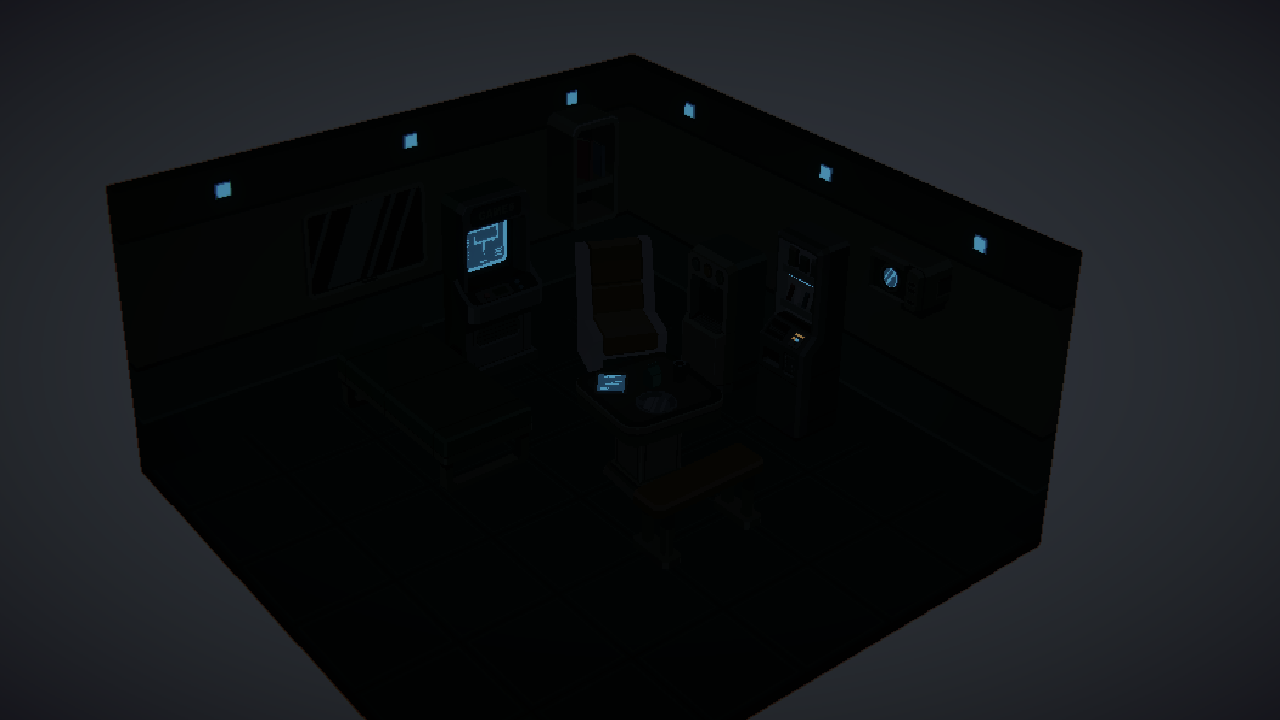
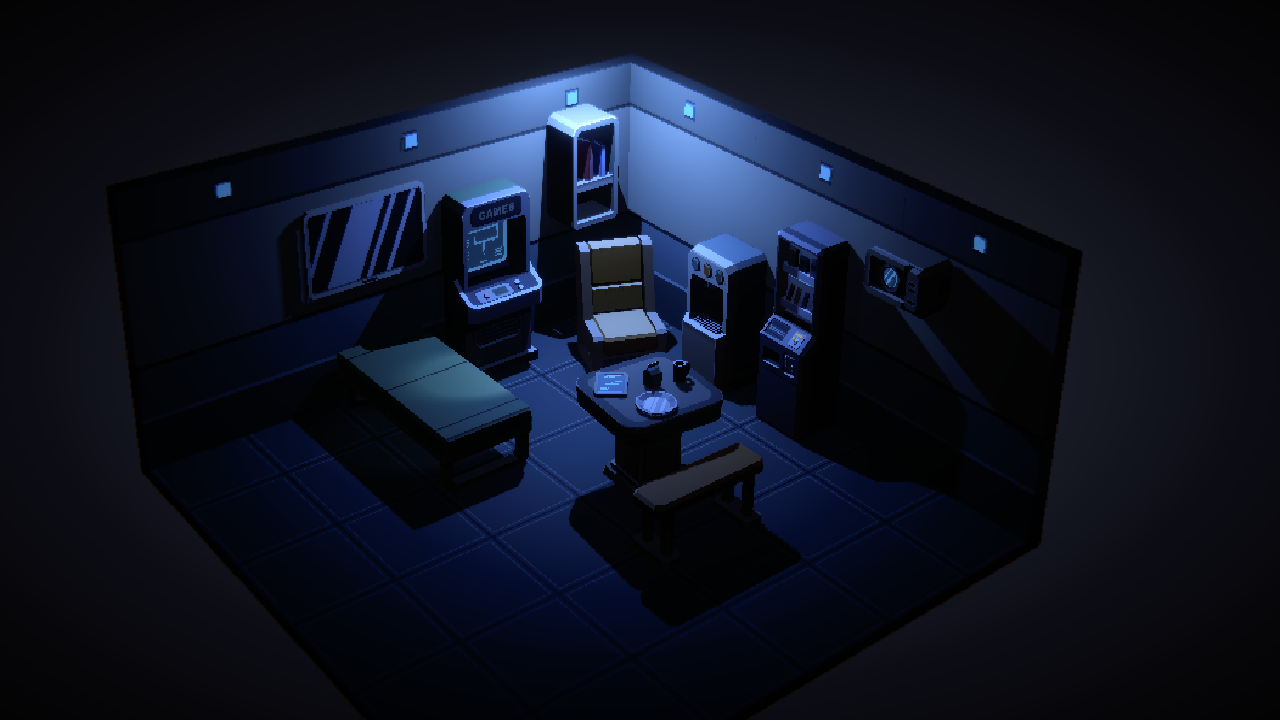
Spatial grounding fix: diagonal + range rule + guardrail (horror 4->7/10)
Root-caused the full suite's shared failure pattern instead of tuning
blindly. The archetype instructions already say the correct craft rule
(KEY must shape the space with a real falloff gradient, FILL never
fully off) and the agent's own reasoning echoed that language almost
verbatim on every failing attempt -- while still picking range=2.0-4.6
in a room with a ~20+ unit diagonal. Not a missing-concept problem: a
missing-number problem. The scene bounding box was already given to
the agent (get_scene_bounds), but only as min/max corners framed for
placement rejection, with no diagonal and nothing connecting room scale
to a range choice.

Three changes:
1. get_scene_context()'s bounds section now states the diagonal
   directly (pre-computed, not left for the model to derive from six
   raw numbers) plus an explicit sizing rule: KEY range >= 25-40% of
   the diagonal.
2. Same rule added to the KEY/FILL/RIM craft instructions, explicitly
   framed as archetype-independent (a physical sizing rule, not a mood
   decision -- applies regardless of which of the 4 archetypes).
3. New 4th guardrail (RANGE_DIAGONAL_FRACTION_FLOOR=0.25): checks the
   claimed KEY light's real range (not self-report) against the real
   scene diagonal, same claim-vs-reality pattern as every other
   guardrail this session.

Re-tested horror ALONE (deliberately cheap, before a full suite
re-run): 4/10 -> 7/10, PASS. The guardrail never even had to fire --
[…]

diff --git a/agent/src/unity_mood_lighting_agent/main.py b/agent/src/unity_mood_lighting_agent/main.py
@@ -45,7 +45,7 @@ from pathlib import Path
 from agents import Runner, trace
 from dotenv import load_dotenv
 
-from unity_mood_lighting_agent.agent import LightingDecision, Lever, agent, get_scene_context
+from unity_mood_lighting_agent.agent import LightingDecision, Lever, LightRole, agent, get_scene_context
 from unity_mood_lighting_agent.judge import judge_mood_match
 from unity_mood_lighting_agent.spatial_agent import ensure_spatial_breakdown, load_cached_spatial_breakdown
 from unity_mood_lighting_agent.tools import cleanup_agent_lights
@@ -63,6 +63,7 @@ from unity_mood_lighting_agent.unity_bridge import (
     get_color_adjustments,
     get_fog,
     get_light_properties,
+    get_scene_bounds,
     get_skybox,
     get_vignette,
     image_to_data_url,
@@ -115,6 +116,17 @@ LOG_PATH = REPO_ROOT / "mood_test_log.jsonl"
 # the whole frame) would be more principled than any whole-frame
 # percentile ratio — flagged for a future session, not solved here.
 KEY_LIGHT_P90_LIFT_FLOOR = 0.15
+
+# Found via the full eval suite (2026-11-26): every "restrained"-archetype
+# failure shared the identical judge complaint (isolated bright dots, no
+# real shadow-shaping key) while the agent's own reasoning used the exact
+# right vocabulary -- it understood the concept, it just picked a `range`
+# disconnected from the room's real physical scale (nothing in its prompt
+# connected the scene bounding box to a range number before this). This
+# guardrail checks the claimed KEY light's real range against the scene's
+# real diagonal (get_scene_bounds) -- a KEY that only reaches a fraction
+# of the room this small is lighting its own local radius, not the room.
+RANGE_DIAGONAL_FRACTION_FLOOR = 0.25
 
 
 def _snapshot_lever_state() -> dict:
@@ -854,6 +866,55 @@ async def run(task: str, case_name: str | None = None, scene_path: str | None = 
                                 f"Gave up after {MAX_ATTEMPTS} attempts. Final attempt was rejected: "
                                 f"key light never exceeded baseline brightness (p90={contrast.p90}, "
                                 f"needed {required_p90:.1f})."
+                            )
+                        continue  # skip the judge entirely, retry without burning that call
+
+                # Fourth deterministic guardrail (2026-11-26): the claimed
+                # KEY light's real range vs. the scene's real diagonal —
+                # see RANGE_DIAGONAL_FRACTION_FLOOR's comment for why.
+                key_assignments = [a for a in decision.light_role_assignments if a.role == LightRole.KEY]
+                if key_assignments:
+                    bounds = get_scene_bounds()
+                    required_range = bounds.diagonal * RANGE_DIAGONAL_FRACTION_FLOOR
+                    undersized = [
+                        (a.instance_id, real_range)
+                        for a in key_assignments
+                        if (real_range := get_light_properties(a.instance_id).range) is not None
+                        and real_range < required_range
+                    ]
+                    if undersized:
+                        print(
+                            f"[guardrail] attempt {attempt}/{MAX_ATTEMPTS} KEY light range too small "
+                            f"for the room ({undersized}, need >= {required_range:.1f} = "
+                            f"{RANGE_DIAGONAL_FRACTION_FLOOR * 100:.0f}% of diagonal {bounds.diagonal:.1f}) "
+                            "— skipping judge call"
+                        )
+                        feedback = (
+                            f"Your claimed KEY light(s) {[u[0] for u in undersized]} have range(s) "
+                            f"{[u[1] for u in undersized]}, but the scene's diagonal is "
+                            f"{bounds.diagonal:.1f} — a KEY light's range needs to be at least "
+                            f"{required_range:.1f} ({RANGE_DIAGONAL_FRACTION_FLOOR * 100:.0f}% of the "
+                            "diagonal) to actually reach a meaningful portion of the room's floor/"
+                            "walls. At its current range, this light only lights its own small local "
+                            "radius — exactly the 'bright dot in the dark' failure, not a real "
+                            "shadow-shaping key, no matter how high its intensity is. Widen the range "
+                            "(or reposition it so a wider range still fits the mood) rather than only "
+                            "raising intensity."
+                        )
+                        attempt_history.append({"role": "user", "content": [{"type": "input_text", "text": feedback}]})
+                        if attempt == MAX_ATTEMPTS:
+                            _log_guardrail_rejection(
+                                task, attempt, "key_light_range_too_small",
+                                {"undersized": undersized, "required_range": required_range, "diagonal": bounds.diagonal},
+                                case_name, run_started_at,
+                            )
+                            shutil.copyfile(post_attempt_capture.path, shot_dir / "result.png")
+                            shutil.copyfile(post_attempt_capture.path, latest_dir / "result.png")
+                            print(f"[screenshot] result saved: {post_attempt_capture.path} (+ latest/)")
+                            return (
+                                f"Gave up after {MAX_ATTEMPTS} attempts. Final attempt was rejected: "
+                                f"KEY light range too small for the room ({undersized}, needed >= "
+                                f"{required_range:.1f})."
                             )
                         continue  # skip the judge entirely, retry without burning that call
 

diff --git a/agent/src/unity_mood_lighting_agent/agent.py b/agent/src/unity_mood_lighting_agent/agent.py
@@ -266,7 +266,12 @@ agent = Agent(
         "must visibly shape the SPACE around it — a real falloff "
         "gradient on the floor/walls, a real shadow boundary — not just "
         "glow brightly at its own position while everything nearby "
-        "stays black.\n"
+        "stays black. SIZE ITS RANGE AGAINST THE SCENE DIAGONAL (given "
+        "in your scene context) — at least 25-40% of it. This is a "
+        "physical sizing rule, not a mood decision: it applies whether "
+        "the mood is dramatic or soft, and a range far below this reads "
+        "as 'a bright dot in the dark' regardless of how high the "
+        "intensity is.\n"
         "- FILL: a much dimmer secondary light (or the scene's OTHER "
         "existing lights, retuned) — roughly 10-30% of the key's "
         "intensity, never fully off. Its job is to keep the shadow side "
@@ -497,7 +502,15 @@ def get_scene_context() -> str:
         "create_light/set_object_transform outside this range will be rejected):\n"
         f"- x: {bounds.min_x:.1f} to {bounds.max_x:.1f}\n"
         f"- y: {bounds.min_y:.1f} to {bounds.max_y:.1f}\n"
-        f"- z: {bounds.min_z:.1f} to {bounds.max_z:.1f}"
+        f"- z: {bounds.min_z:.1f} to {bounds.max_z:.1f}\n"
+        f"- SCENE DIAGONAL: {bounds.diagonal:.1f} world units, corner to corner. "
+        "Use this directly to size a light's `range`: a KEY light's range should "
+        "typically be AT LEAST 25-40% of this diagonal to visibly shape a "
+        "meaningful portion of the room (reach the floor/walls with a real "
+        "gradient) rather than only its own small local radius. A range much "
+        "smaller than that, even at high intensity, reads as 'a bright dot in "
+        "the dark' no matter how dramatic the mood calls for — this is a sizing "
+        "rule, not a mood choice; it applies the same way to every archetype."
     )
 
     color = get_color_adjustments()

diff --git a/docs/mood-test-results.md b/docs/mood-test-results.md
@@ -2105,3 +2105,65 @@ time, idempotent), but worth checking next session whether `save_scene()`
 is actually being called after `ensure_scene_ready()` adds it, or
 whether the Volume GameObject itself isn't surviving a scene reload for
 some other reason.
+
+## 2026-11-26 (cont'd again): spatial-grounding fix — horror 4/10 -> 7/10, confirmed on first retest
+
+Discussed the suite's failure pattern directly with Eran. Checked the
+actual archetype instructions rather than guessing — they already say
+exactly the right thing ("KEY must visibly shape the SPACE... a real
+falloff gradient on the floor/walls... not just glow at its own position
+while everything nearby stays black," FILL "never fully off, 10-30% of
+key"). The agent's own `reasoning` text for failing attempts echoed this
+exact language almost verbatim while still choosing `range=2.0-4.6` in
+rooms with a ~20+ unit diagonal — not a missing-concept problem, an
+execution-grounding problem: it understood the idea and had no number to
+calibrate against.
+
+Checked `get_scene_context()`: the scene bounding box WAS already being
+given to the agent (`get_scene_bounds()`), but only framed as a placement
+constraint ("don't put a light outside this box"), min/max corners with
+no diagonal and no instruction connecting room scale to a `range` choice.
+The model would've had to mentally derive a diagonal from six raw numbers
+and then decide what that implies for `range` — nothing did that
+translation for it.
+
+Built 3 things, in order, before retesting:
+1. `get_scene_context()`'s bounds section now states the diagonal directly
+   (pre-computed, not left for the model to derive) plus an explicit rule:
+   a KEY light's range should be at least 25-40% of the diagonal.
+2. Added the same rule to the KEY/FILL/RIM instructions block as a
+   craft requirement — explicitly framed as archetype-independent ("this
+   is a physical sizing rule, not a mood decision").
+3. Built a 4th deterministic guardrail (`RANGE_DIAGONAL_FRACTION_FLOOR =
+   0.25`) checking the claimed KEY light's real range against the real
+   scene diagonal (`get_scene_bounds()`) — same claim-vs-reality pattern
+   as every other guardrail this session, verified state, not self-report.
+
+Re-ran ONLY horror (the case that's failed every session this entire
+project). **Result: 7/10, PASS, on attempt 2** — up from 4/10 in the full
+suite run just before this fix. Notably, the guardrail never even had to
+fire: attempt 1 already picked `range=8.2` on its own, purely from being
+told the diagonal and the sizing rule (attempt 1 was rejected by the
+existing no-transform-change guardrail instead, unrelated). Attempt 2
+widened to `range=9.4`, moved the light, and the judge's critique
+qualitatively changed character: "a clear top-right directional key that
+creates strong, readable shadows across the room... corners and floor
+fall into deep shadow, giving the space a contained, uneasy feel" — a
+completely different class of critique than every prior horror attempt's
+"isolated bright dots... darkness doing the work instead of light
+design."
+
+This is the strongest evidence yet that the lighting agent's conceptual
+understanding was never the bottleneck — giving it one additional,
+precomputed number (the diagonal) and one sentence connecting it to
+`range` was enough to flip the result, with zero changes to the
+archetype's creative freedom or any numeric value constraints on color/
+intensity/mood direction.
+
+**Not yet done:** re-running the OTHER failing cases (eerie_lab, thriller,
+dreamlike, post_apocalyptic, noir) with this fix active — horror was
+deliberately tested alone first (Eran's call) to confirm the theory
+cheaply before spending a full suite run. Next session: re-run the full
+suite to see how many of the other 5 failures this same fix resolves,
+since the exact same judge-critique pattern was shared across all of
+them.
